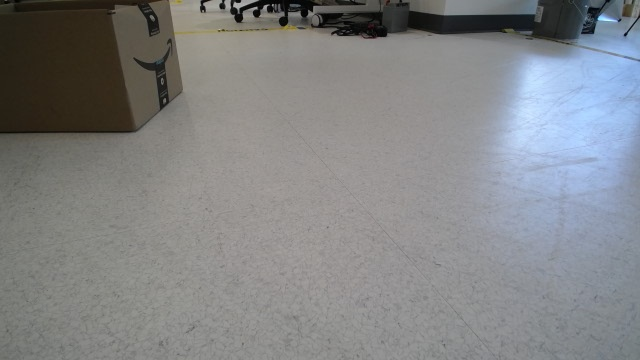
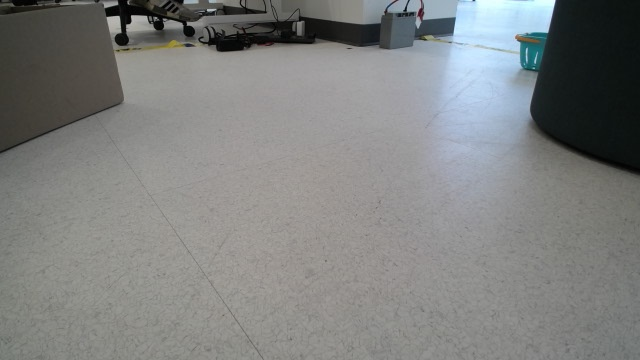
add tests for real-world interfaces and pass all ci checks

diff --git a/prpl-tidybot/src/prpl_tidybot/interfaces/interface.py b/prpl-tidybot/src/prpl_tidybot/interfaces/interface.py
@@ -9,7 +9,7 @@ import abc
 import spatialmath
 from prpl_utils.structs import Image
 
-from prpl_tidybot.interfaces.arm_interface import FakeArmInterface
+from prpl_tidybot.interfaces.arm_interface import FakeArmInterface, RealArmInterface
 from prpl_tidybot.interfaces.base_interface import FakeBaseInterface, RealBaseInterface
 from prpl_tidybot.interfaces.camera_interface import (
     FakeCameraInterface,
@@ -55,24 +55,31 @@ class Interface(abc.ABC):
 class RealInterface(Interface):
     """The real and sole interface to the real robot."""
 
-    def __init__(self):
+    def __init__(self) -> None:
         self.camera_interface = RealCameraInterface()
         self.base_interface = RealBaseInterface()
+        self.arm_interface = RealArmInterface()
 
     def get_base_state(self) -> spatialmath.SE2:
         return self.base_interface.get_base_state()
 
     def get_arm_state(self) -> list[float]:
-        raise NotImplementedError("Not implemented yet.")
+        return self.arm_interface.get_arm_state()
 
     def get_gripper_state(self) -> float:
-        raise NotImplementedError("Not implemented yet.")
+        return self.arm_interface.get_gripper_state()
 
     def get_wrist_image(self) -> Image:
         return self.camera_interface.get_wrist_image()
 
     def get_base_image(self) -> Image:
         return self.camera_interface.get_base_image()
+
+    def close(self) -> None:
+        """Close the real interface."""
+        self.base_interface.close()
+        self.arm_interface.close()
+        self.camera_interface.close()
 
 
 class FakeInterface(Interface):

diff --git a/prpl-tidybot/src/prpl_tidybot/interfaces/arm_interface.py b/prpl-tidybot/src/prpl_tidybot/interfaces/arm_interface.py
@@ -2,7 +2,13 @@
 
 import abc
 
-from prpl_tidybot.constants import RETRACT_ARM_CONF
+from prpl_tidybot.arm_server import ArmManager
+from prpl_tidybot.constants import (
+    ARM_RPC_HOST,
+    ARM_RPC_PORT,
+    RETRACT_ARM_CONF,
+    RPC_AUTHKEY,
+)
 
 
 class ArmInterface(abc.ABC):
@@ -34,12 +40,27 @@ class FakeArmInterface(ArmInterface):
 class RealArmInterface(ArmInterface):
     """Real arm interface."""
 
-    def __init__(self):
+    def __init__(self) -> None:
         self.arm_state = RETRACT_ARM_CONF
         self.gripper_state = 0.0
 
+        self.manager = ArmManager(
+            address=(ARM_RPC_HOST, ARM_RPC_PORT), authkey=RPC_AUTHKEY
+        )
+        self.manager.connect()
+        self.arm = self.manager.Arm()  # type: ignore # pylint: disable=no-member
+        self.arm.reset()
+
     def get_arm_state(self) -> list[float]:
-        raise NotImplementedError("Real arm interface not implemented yet.")
+        return self.arm.get_joint_angles()
 
     def get_gripper_state(self) -> float:
-        raise NotImplementedError("Real arm interface not implemented yet.")
+        return self.arm.get_gripper_position()
+
+    def execute_action(self, action) -> None:
+        """Execute an joint space action on the arm."""
+        raise NotImplementedError("Real arm execute_action not implemented yet.")
+
+    def close(self) -> None:
+        """Close the arm interface."""
+        self.arm.close()

diff --git a/prpl-tidybot/scripts/test_real_interface.py b/prpl-tidybot/scripts/test_real_interface.py
@@ -1,0 +1,35 @@
+"""Tests for real_env.py."""
+
+import time
+
+import cv2 as cv
+
+from prpl_tidybot.constants import POLICY_CONTROL_PERIOD
+from prpl_tidybot.interfaces.interface import RealInterface
+
+if __name__ == "__main__":
+    interface = RealInterface()
+    try:
+        for i in range(2):
+            observation = interface.get_observation()
+            print("arm conf:", observation.arm_conf)
+            print(
+                "base pose (quat):",
+                observation.base_pose.x,
+                observation.base_pose.y,
+                observation.base_pose.theta(),
+            )
+            print("gripper:", observation.gripper)
+            base_image = observation.base_camera
+            wrist_image = observation.wrist_camera
+            cv.imwrite(
+                f"test_images/base_image_{i}.jpg",
+                cv.cvtColor(base_image, cv.COLOR_RGB2BGR),
+            )
+            cv.imwrite(
+                f"test_images/wrist_image_{i}.jpg",
+                cv.cvtColor(wrist_image, cv.COLOR_RGB2BGR),
+            )
+            time.sleep(POLICY_CONTROL_PERIOD)
+    finally:
+        interface.close()

diff --git a/prpl-tidybot/src/prpl_tidybot/interfaces/camera_interface.py b/prpl-tidybot/src/prpl_tidybot/interfaces/camera_interface.py
@@ -46,12 +46,17 @@ class RealCameraInterface(CameraInterface):
     base camera: logitech camera
     """
 
-    def __init__(self):
-        self.base_camera = LogitechCamera(BASE_CAMERA_SERIAL)
-        self.wrist_camera = KinovaCamera()
+    def __init__(self) -> None:
+        self.base_camera = LogitechCamera(BASE_CAMERA_SERIAL)  # type: ignore
+        self.wrist_camera = KinovaCamera()  # type: ignore
 
     def get_wrist_image(self) -> Image:
-        return self.wrist_camera.get_image()
+        return self.wrist_camera.get_image()  # type: ignore
 
     def get_base_image(self) -> Image:
-        return self.base_camera.get_image()
+        return self.base_camera.get_image()  # type: ignore
+
+    def close(self) -> None:
+        """Close the camera interface."""
+        self.base_camera.close()  # type: ignore
+        self.wrist_camera.close()  # type: ignore

diff --git a/prpl-tidybot/src/prpl_tidybot/interfaces/base_interface.py b/prpl-tidybot/src/prpl_tidybot/interfaces/base_interface.py
@@ -33,7 +33,7 @@ class FakeBaseInterface(BaseInterface):
 class RealBaseInterface(BaseInterface):
     """Real base interface."""
 
-    def __init__(self):
+    def __init__(self) -> None:
         self.base_manager = BaseManager(
             address=(BASE_RPC_HOST, BASE_RPC_PORT), authkey=RPC_AUTHKEY
         )
@@ -43,7 +43,9 @@ class RealBaseInterface(BaseInterface):
 
     def get_base_state(self) -> spatialmath.SE2:
         return spatialmath.SE2(
-            self.base.get_state()[0], self.base.get_state()[1], self.base.get_state()[2]
+            self.base.get_state()["base_pose"][0],
+            self.base.get_state()["base_pose"][1],
+            self.base.get_state()["base_pose"][2],
         )
 
     def execute_action(self, action) -> None:
